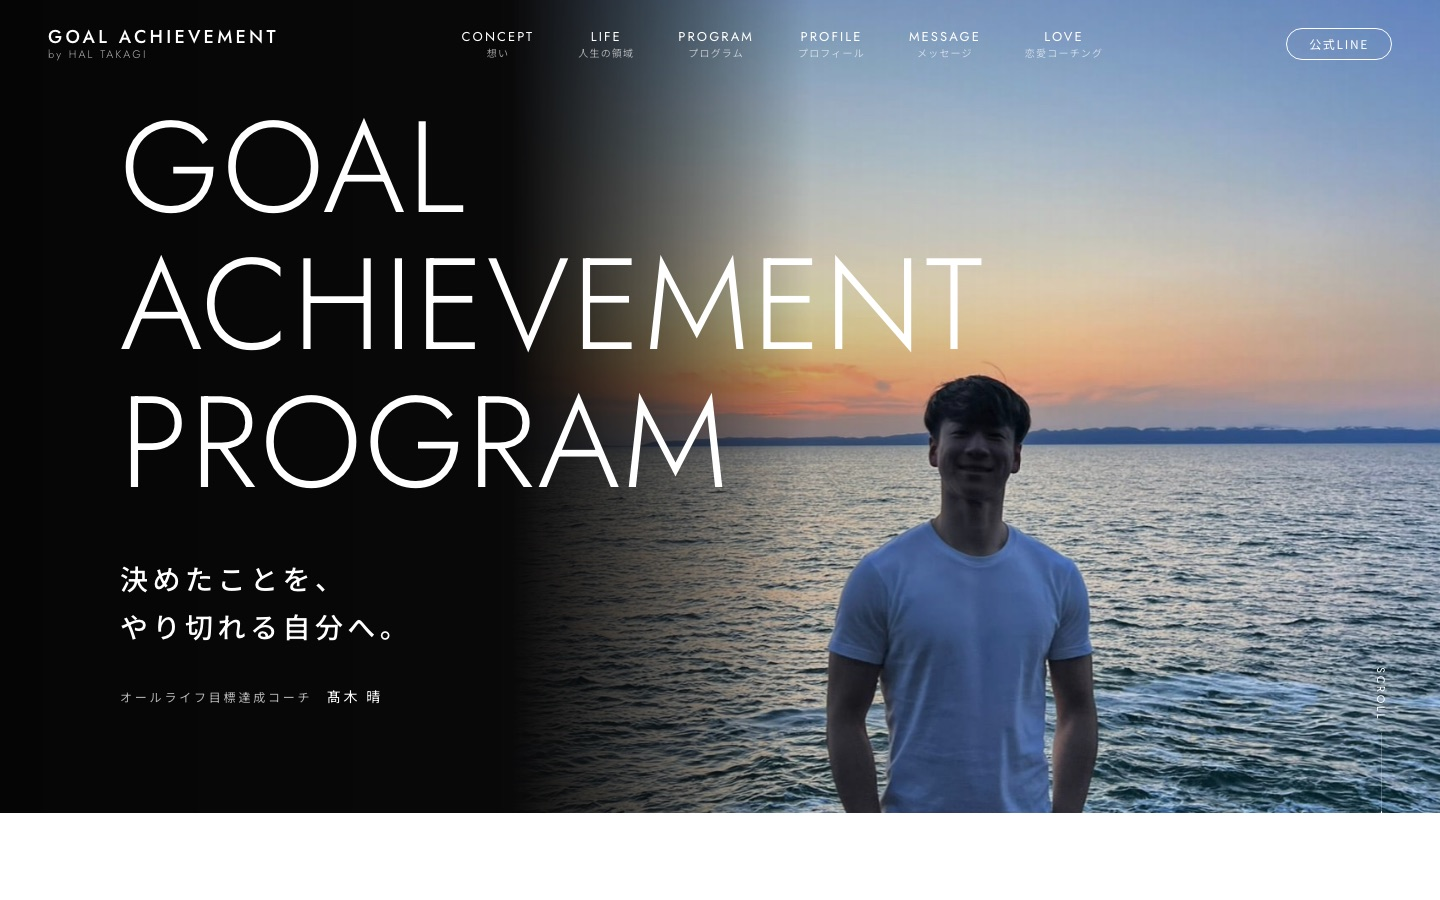
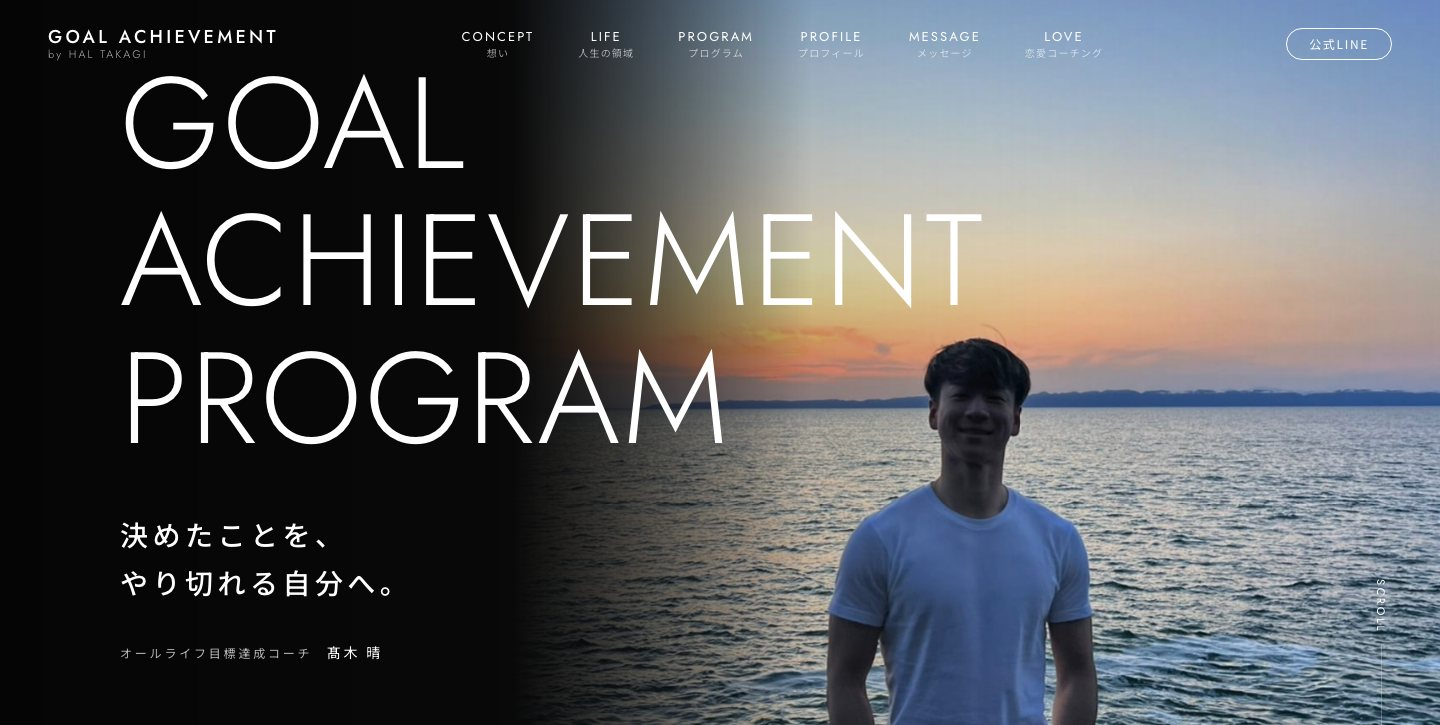
Works: catchphrase overlay on HARBOR thumbnail, LINE Harness label, clean coaching thumbnail

diff --git a/index.html b/index.html
@@ -14,7 +14,7 @@
   <link rel="preconnect" href="https://fonts.googleapis.com">
   <link rel="preconnect" href="https://fonts.gstatic.com" crossorigin>
   <link href="https://fonts.googleapis.com/css2?family=Inter+Tight:wght@200;400;500;600&family=Zen+Kaku+Gothic+New:wght@400;500;700&display=swap" rel="stylesheet">
-  <link rel="stylesheet" href="css/style.css?v=20261006a">
+  <link rel="stylesheet" href="css/style.css?v=20261006b">
   <script>document.documentElement.classList.add("js")</script>
 </head>
 <body>
@@ -208,9 +208,13 @@
         <a class="site" href="https://harbor-shisha.com/" target="_blank" rel="noopener" data-float="-0.06">
           <figure class="site__thumb ph clip" data-reveal data-label="works/site-02.jpg">
             <img src="images/works/site-02.jpg" alt="HARBOR cafe &amp; shisha bar のトップページ" onerror="this.remove()">
+            <figcaption class="site__overlay" aria-hidden="true">
+              <span class="site__catch">日常を忘れる、<br>大人の隠れ家</span>
+              <span class="site__brand">HARBOR cafe &amp; shisha bar</span>
+            </figcaption>
             <span class="site__visit" aria-hidden="true">Visit ↗</span>
           </figure>
-          <p class="site__meta"><span>02</span>シーシャカフェ＆バー ／ LINE公式アカウント運用</p>
+          <p class="site__meta"><span>02</span>シーシャカフェ＆バー ／ LINE公式アカウント運用・LINE Harness連携</p>
           <h3 class="site__name">HARBOR cafe &amp; shisha bar</h3>
           <p class="site__url">harbor-shisha.com</p>
         </a>
@@ -252,6 +256,6 @@
     </div>
   </footer>
 
-  <script src="js/main.js?v=20261006a"></script>
+  <script src="js/main.js?v=20261006b"></script>
 </body>
 </html>

diff --git a/css/style.css b/css/style.css
@@ -717,6 +717,32 @@ main, .footer { position: relative; z-index: 1; }
   transition: transform .6s var(--ease-out);
 }
 .site:hover .site__visit, .site:focus-visible .site__visit { transform: scale(1); }
+/* サイトの1枚目に見出しがないとき、そのサイトのキャッチコピーを重ねる */
+.site__overlay {
+  position: absolute;
+  z-index: 2;
+  inset: 0;
+  display: flex;
+  flex-direction: column;
+  justify-content: flex-end;
+  gap: 10px;
+  padding: clamp(20px, 3vw, 44px);
+  background: linear-gradient(180deg, rgba(0, 0, 0, 0) 35%, rgba(0, 0, 0, .6) 100%);
+  color: #fff;
+}
+.site__catch {
+  font-size: clamp(22px, 2.6vw, 44px);
+  font-weight: 700;
+  line-height: 1.35;
+  letter-spacing: .06em;
+}
+.site__brand {
+  font: 500 clamp(11px, .9vw, 14px)/1 var(--en);
+  letter-spacing: .2em;
+  text-transform: uppercase;
+  opacity: .85;
+}
+.site__thumb .site__visit { z-index: 3; }
 .site:hover .site__thumb img { scale: 1.05; }
 .site__meta {
   display: flex;

diff --git a/history.html b/history.html
@@ -14,7 +14,7 @@
   <link rel="preconnect" href="https://fonts.googleapis.com">
   <link rel="preconnect" href="https://fonts.gstatic.com" crossorigin>
   <link href="https://fonts.googleapis.com/css2?family=Inter+Tight:wght@400;500;600&family=Zen+Kaku+Gothic+New:wght@400;500;700&display=swap" rel="stylesheet">
-  <link rel="stylesheet" href="css/style.css?v=20261006a">
+  <link rel="stylesheet" href="css/style.css?v=20261006b">
   <script>document.documentElement.classList.add("js")</script>
 </head>
 <body class="page-history">
@@ -197,6 +197,6 @@
     </div>
   </footer>
 
-  <script src="js/main.js?v=20261006a"></script>
+  <script src="js/main.js?v=20261006b"></script>
 </body>
 </html>

diff --git a/ai.html b/ai.html
@@ -14,7 +14,7 @@
   <link rel="preconnect" href="https://fonts.googleapis.com">
   <link rel="preconnect" href="https://fonts.gstatic.com" crossorigin>
   <link href="https://fonts.googleapis.com/css2?family=Inter+Tight:wght@400;500;600&family=Zen+Kaku+Gothic+New:wght@400;500;700&display=swap" rel="stylesheet">
-  <link rel="stylesheet" href="css/style.css?v=20261006a">
+  <link rel="stylesheet" href="css/style.css?v=20261006b">
   <script>document.documentElement.classList.add("js")</script>
 </head>
 <body>
@@ -169,6 +169,6 @@
     </div>
   </footer>
 
-  <script src="js/main.js?v=20261006a"></script>
+  <script src="js/main.js?v=20261006b"></script>
 </body>
 </html>

diff --git a/web.html b/web.html
@@ -14,7 +14,7 @@
   <link rel="preconnect" href="https://fonts.googleapis.com">
   <link rel="preconnect" href="https://fonts.gstatic.com" crossorigin>
   <link href="https://fonts.googleapis.com/css2?family=Inter+Tight:wght@400;500;600&family=Zen+Kaku+Gothic+New:wght@400;500;700&display=swap" rel="stylesheet">
-  <link rel="stylesheet" href="css/style.css?v=20261006a">
+  <link rel="stylesheet" href="css/style.css?v=20261006b">
   <script>document.documentElement.classList.add("js")</script>
 </head>
 <body>
@@ -250,6 +250,6 @@
     </div>
   </footer>
 
-  <script src="js/main.js?v=20261006a"></script>
+  <script src="js/main.js?v=20261006b"></script>
 </body>
 </html>
